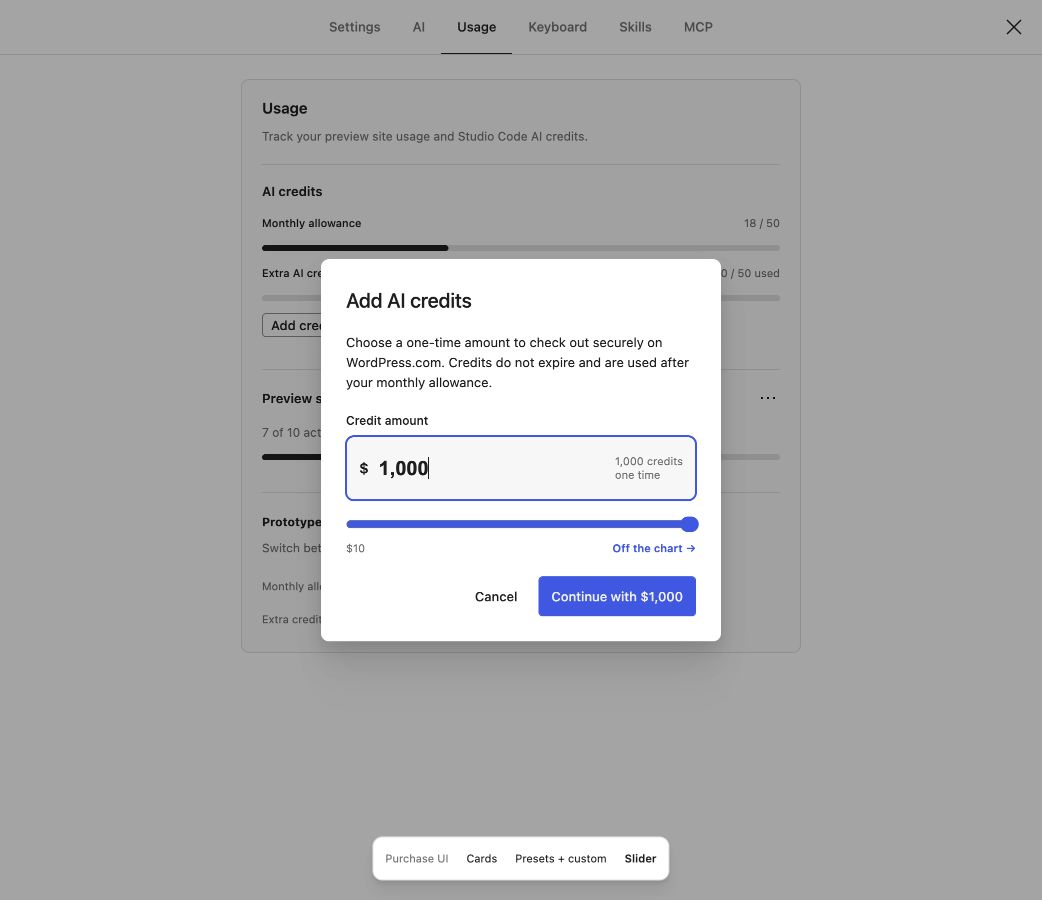
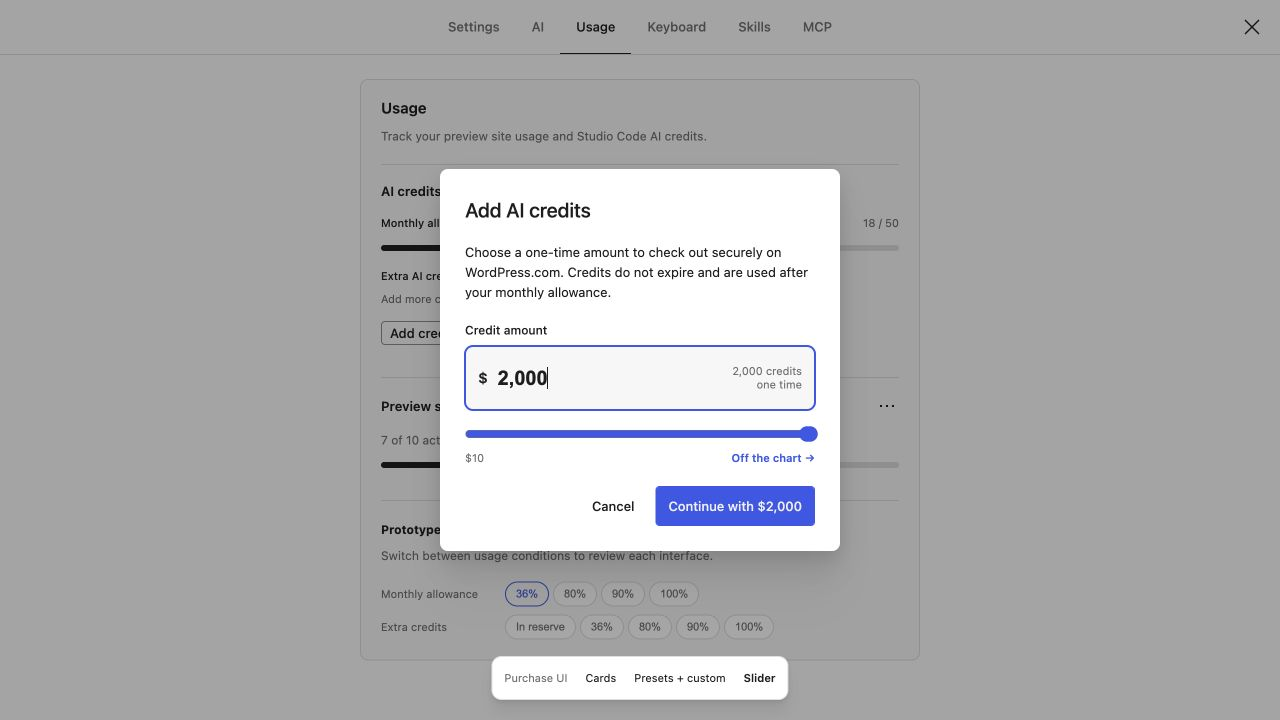
Celebrate off-scale credit amounts

diff --git a/apps/ui/src/components/purchase-credits-dialog/index.tsx b/apps/ui/src/components/purchase-credits-dialog/index.tsx
@@ -1,21 +1,71 @@
 import { __, sprintf } from '@wordpress/i18n';
 import { privateApis } from '@wordpress/theme';
 import { Button, Dialog, Tooltip } from '@wordpress/ui';
-import { useState } from 'react';
+import { useMemo, useState } from 'react';
 import { toast } from '@/data/app-messages';
 import { addExplorationCredits } from '@/data/usage-exploration';
 import { useColorScheme } from '@/hooks/use-color-scheme';
 import { unlock } from '@/lock-unlock';
 import styles from './style.module.css';
+import type { CSSProperties } from 'react';
 
 const MIN_CREDIT_AMOUNT = 10;
 const MAX_CREDIT_AMOUNT = 200;
 const DEFAULT_CREDIT_AMOUNT = 50;
 const CARD_AMOUNTS = [ 10, 20, 50, 100 ];
 const PRESET_AMOUNTS = [ 25, 50, 100 ];
+const CONFETTI_COLORS = [
+	'var(--wpds-color-fg-interactive-brand)',
+	'var(--wpds-color-fg-content-success)',
+	'var(--wpds-color-fg-content-warning)',
+	'var(--wpds-color-fg-content-error)',
+];
 const creditAmountFormatter = new Intl.NumberFormat();
 const { ThemeProvider } = unlock( privateApis );
 type PurchaseVariant = 'cards' | 'presets' | 'slider';
+
+function jitter( index: number, salt: number ): number {
+	const value = Math.sin( index * 127.1 + salt * 311.7 ) * 43758.5453;
+	return value - Math.floor( value );
+}
+
+function ConfettiBurst() {
+	const pieces = useMemo(
+		() =>
+			Array.from( { length: 22 }, ( _, index ) => ( {
+				angle: index * ( 360 / 22 ) + ( jitter( index, 1 ) * 24 - 12 ),
+				distance: 52 + jitter( index, 2 ) * 48,
+				spin: jitter( index, 3 ) * 540 - 270,
+				delay: jitter( index, 4 ) * 120,
+				color: CONFETTI_COLORS[ index % CONFETTI_COLORS.length ],
+				width: 4 + jitter( index, 5 ) * 3,
+				height: 6 + jitter( index, 6 ) * 4,
+			} ) ),
+		[]
+	);
+
+	return (
+		<div className={ styles.confetti } aria-hidden="true">
+			{ pieces.map( ( piece, index ) => (
+				<span
+					key={ index }
+					className={ styles.confettiPiece }
+					style={
+						{
+							'--confetti-angle': `${ piece.angle }deg`,
+							'--confetti-distance': `${ piece.distance }px`,
+							'--confetti-spin': `${ piece.spin }deg`,
+							backgroundColor: piece.color,
+							width: `${ piece.width }px`,
+							height: `${ piece.height }px`,
+							animationDelay: `${ piece.delay }ms`,
+						} as CSSProperties
+					}
+				/>
+			) ) }
+		</div>
+	);
+}
 
 export function PurchaseCreditsDialog( {
 	open,
@@ -26,6 +76,7 @@ export function PurchaseCreditsDialog( {
 } ) {
 	const [ amount, setAmount ] = useState( String( DEFAULT_CREDIT_AMOUNT ) );
 	const [ variant, setVariant ] = useState< PurchaseVariant >( 'slider' );
+	const [ confettiKey, setConfettiKey ] = useState( 0 );
 	const colorScheme = useColorScheme();
 	const dialogBackground = colorScheme === 'dark' ? '#1e1e1e' : '#ffffff';
 	const checkoutAmount = Number( amount );
@@ -40,7 +91,17 @@ export function PurchaseCreditsDialog( {
 	const hasSelectedPreset = PRESET_AMOUNTS.includes( checkoutAmount );
 	const updateTypedAmount = ( value: string ) => {
 		const digits = value.replace( /\D/g, '' );
-		setAmount( digits.replace( /^0+(?=\d)/, '' ) );
+		const nextAmount = digits.replace( /^0+(?=\d)/, '' );
+
+		if (
+			variant === 'slider' &&
+			Number( nextAmount ) > MAX_CREDIT_AMOUNT &&
+			checkoutAmount <= MAX_CREDIT_AMOUNT
+		) {
+			setConfettiKey( ( key ) => key + 1 );
+		}
+
+		setAmount( nextAmount );
 	};
 
 	const continueToCheckout = () => {
@@ -147,6 +208,7 @@ export function PurchaseCreditsDialog( {
 									{ __( 'Credit amount' ) }
 								</label>
 								<span className={ styles.amountControl }>
+									{ confettiKey > 0 && <ConfettiBurst key={ confettiKey } /> }
 									<span className={ styles.customAmountPrefix } aria-hidden="true">
 										$
 									</span>

diff --git a/apps/ui/src/components/purchase-credits-dialog/style.module.css b/apps/ui/src/components/purchase-credits-dialog/style.module.css
@@ -72,6 +72,15 @@
 	margin-block-start: var( --wpds-dimension-padding-lg );
 }
 
+.amountPicker .amountControl {
+	position: relative;
+}
+
+.amountPicker .amountDetails {
+	align-items: flex-end;
+	text-align: end;
+}
+
 .customAmount {
 	display: flex;
 	flex-direction: column;
@@ -169,6 +178,40 @@
 .rangeLabels[data-overflow] span:last-child {
 	color: var( --wpds-color-fg-interactive-brand );
 	font-weight: 600;
+}
+
+.confetti {
+	position: absolute;
+	inset: 0;
+	pointer-events: none;
+}
+
+.confettiPiece {
+	position: absolute;
+	top: 50%;
+	left: 50%;
+	border-radius: 1px;
+	opacity: 0;
+	animation: confetti-burst 900ms cubic-bezier( 0.16, 1, 0.3, 1 ) forwards;
+}
+
+@keyframes confetti-burst {
+	0% {
+		opacity: 1;
+		transform: rotate( var( --confetti-angle ) ) translateX( 8px ) rotate( 0deg );
+	}
+
+	100% {
+		opacity: 0;
+		transform: rotate( var( --confetti-angle ) ) translateX( var( --confetti-distance ) )
+			rotate( var( --confetti-spin ) );
+	}
+}
+
+@media ( prefers-reduced-motion: reduce ) {
+	.confettiPiece {
+		animation: none;
+	}
 }
 
 .variantSwitcher {
